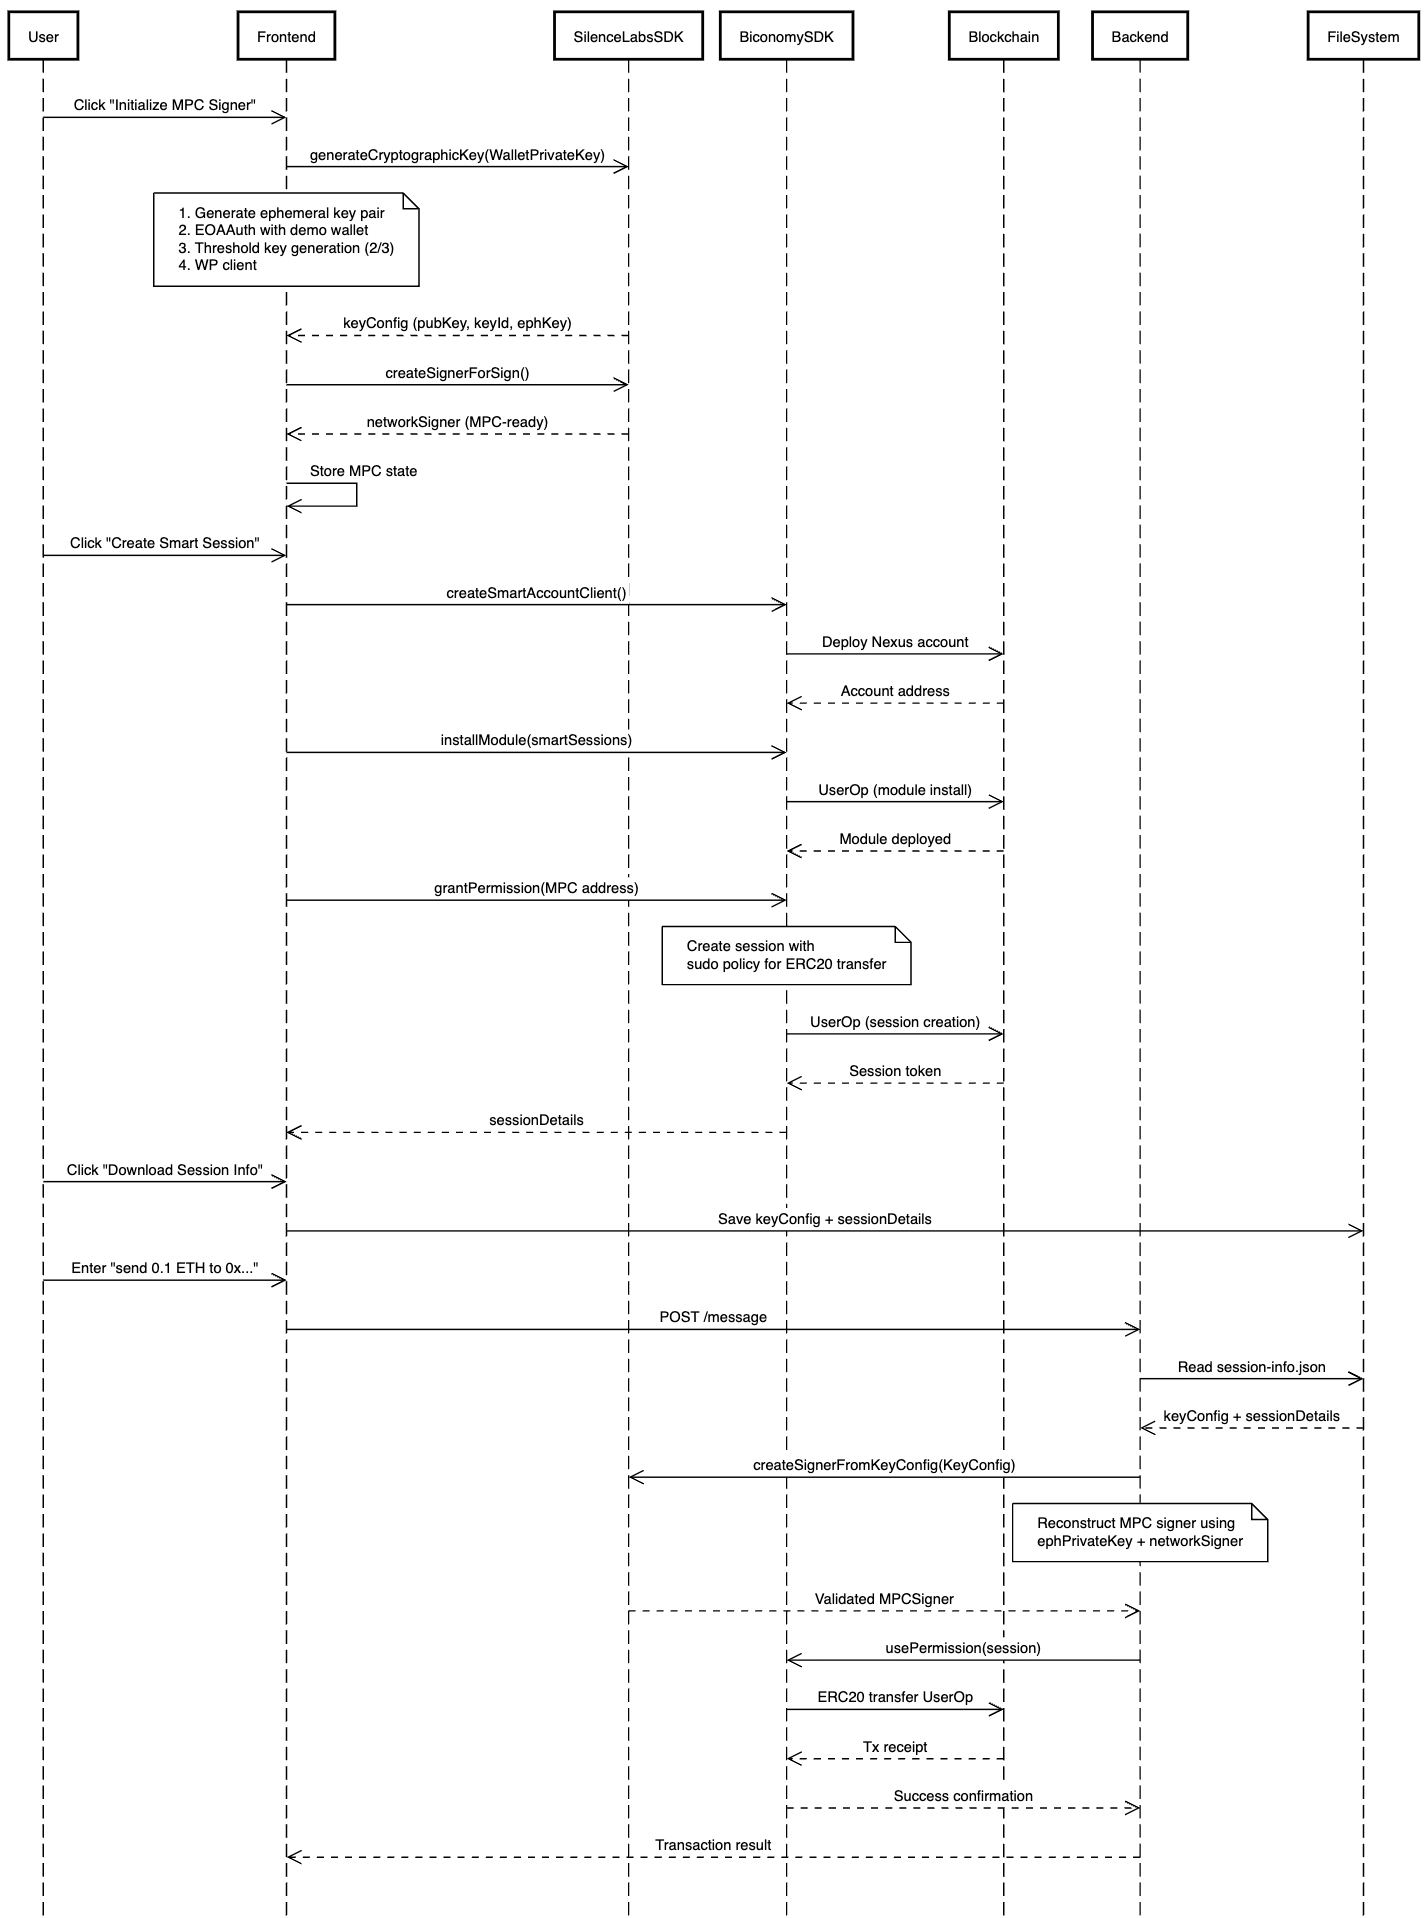
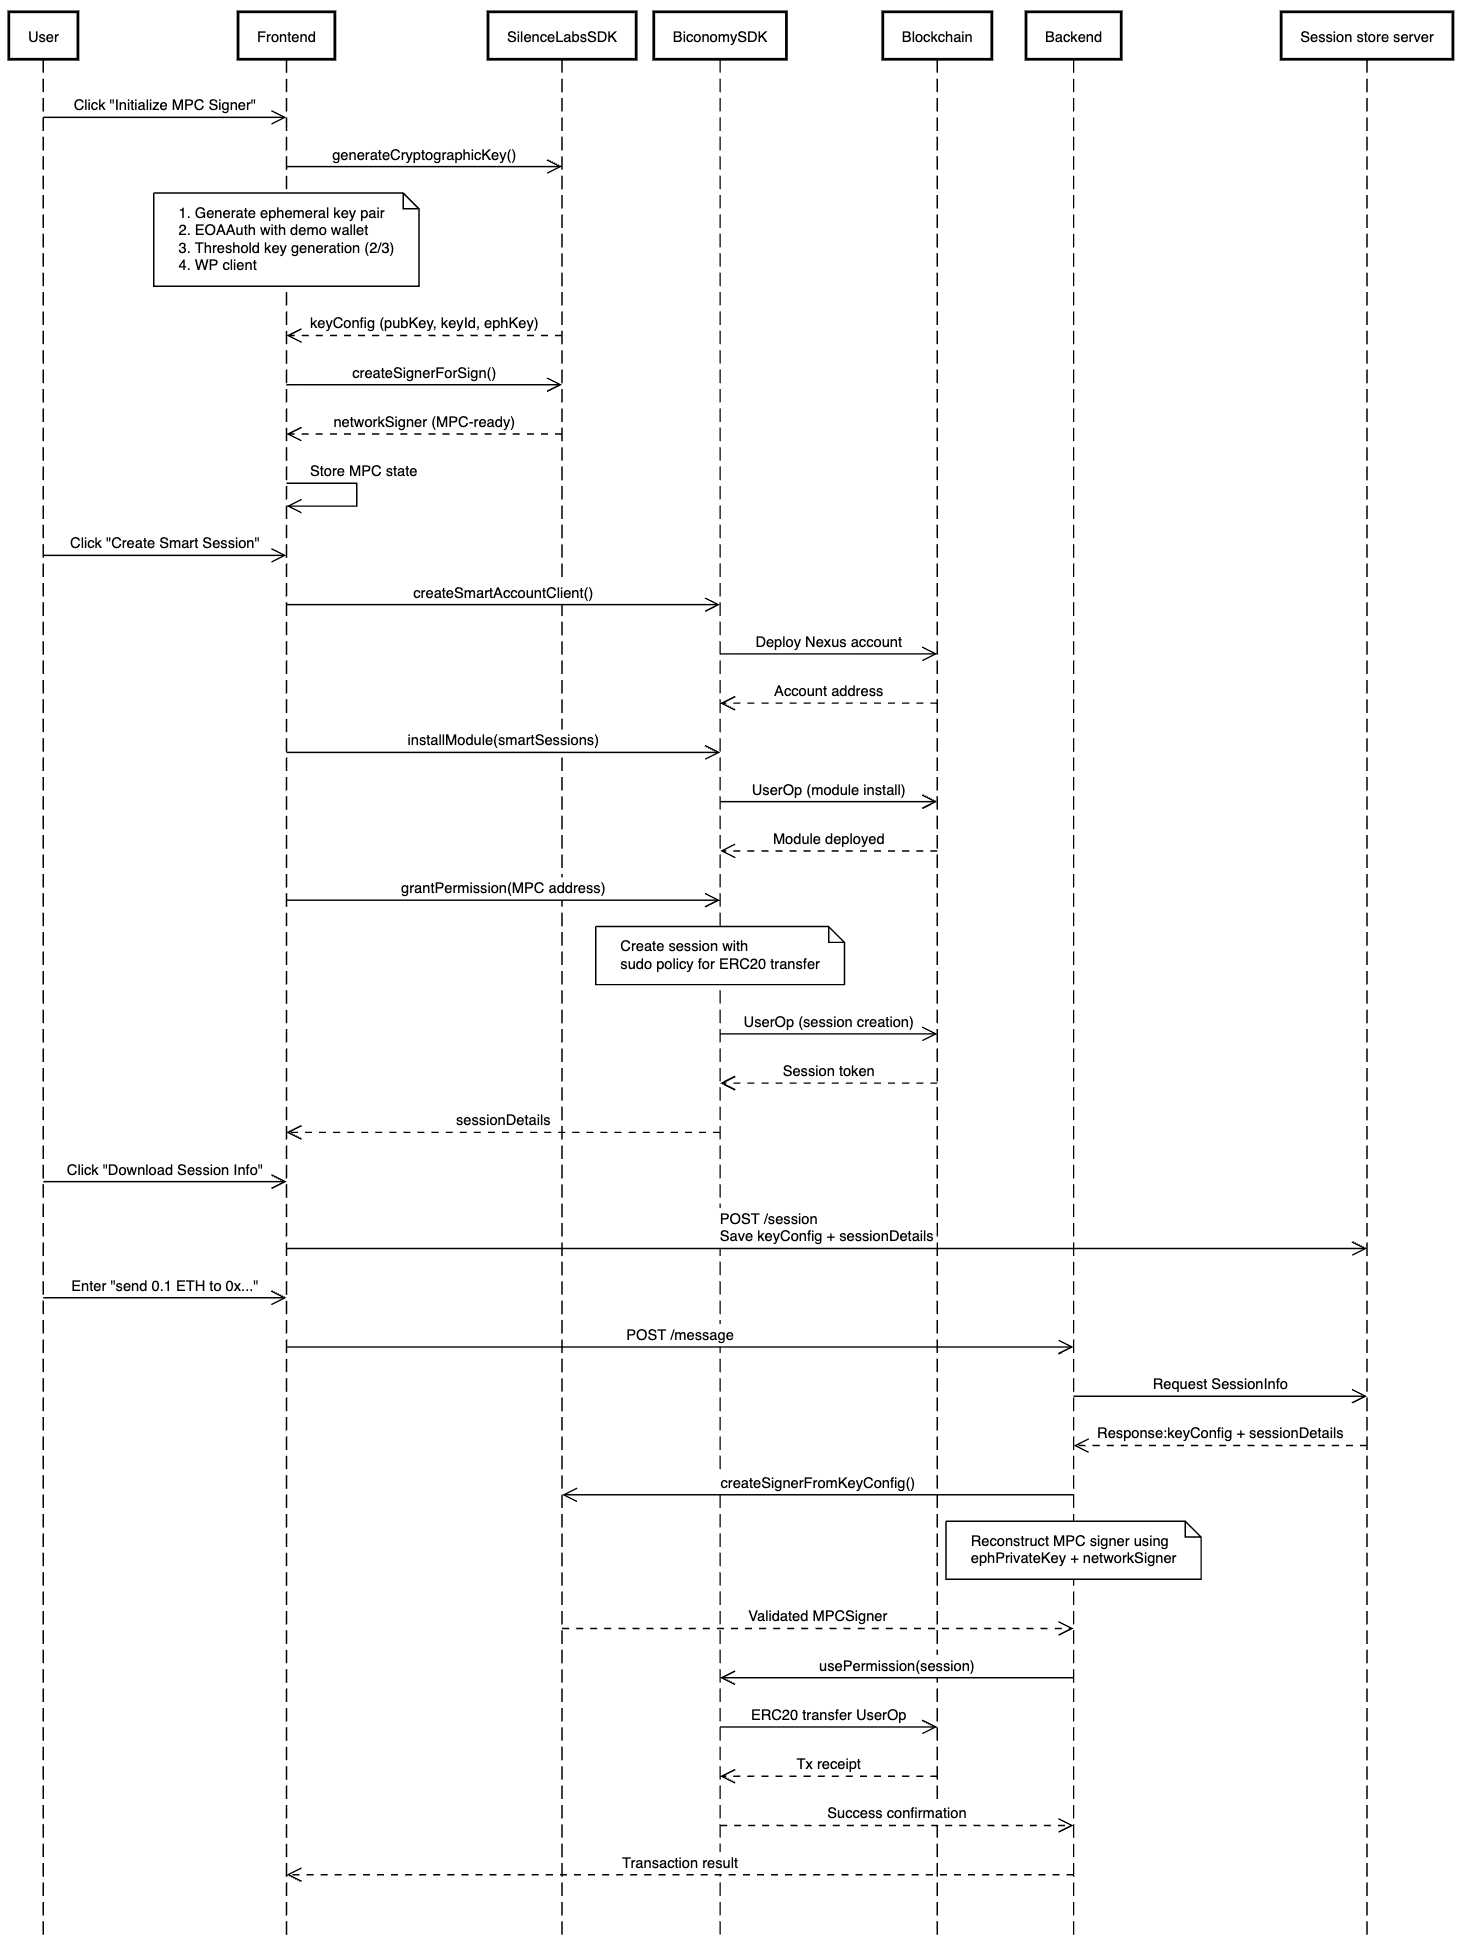
Added env variable,Update wpbe url

diff --git a/src/pages/Index.tsx b/src/pages/Index.tsx
@@ -1,7 +1,4 @@
-/* pages/index.tsx
-   MPC signer → Smart Session → auto-upload → chat
-*/
-import React, { useState, useRef, useEffect } from "react";
+import { useState, useRef, useEffect } from "react";
 import {
   createSmartAccountClient,
   toNexusAccount,
@@ -21,20 +18,17 @@ import { SessionSetup } from "@/components/SessionSetup";
 import { ChatInterface } from "@/components/ChatInterface";
 import { Loader2, X } from "lucide-react";
 
-/* ---------- constants ---------- */
 const chain = { ...baseSepolia, id: 84532 };
-const ALCHEMY_RPC =
-  "https://base-sepolia.g.alchemy.com/v2/71BtTS_ke_J_XJg8P2LtjAGZuDKOQUJD";
-const BICONOMY_BUNDLER_URL =
-  "https://bundler.biconomy.io/api/v3/84532/nJPK7B3ru.dd7f7861-190d-41bd-af80-6877f74b8f44";
-const ERC20_TOKEN_ADDRESS: Address =
-  "0x03AA93e006fBa956cdBAfa2b8EF789D0Cb63e7b4";
+const ALCHEMY_RPC = import.meta.env.VITE_ALCHEMY_RPC;
+const BICONOMY_BUNDLER_URL = import.meta.env.VITE_BICONOMY_BUNDLER_URL;
+const ERC20_TOKEN_ADDRESS: Address = import.meta.env
+  .VITE_ERC20_TOKEN_ADDRESS as Address;
 
-const SESSION_STORE_URL = "https://sessionstoreservice.demo.silencelaboratories.com/api/session";
+const SESSION_STORE_URL =
+  "https://sessionstoreservice.demo.silencelaboratories.com/api/session";
 const AGENT_ID = "aa0d6f50-b80b-0dfa-811b-1f8750ee6278";
 const ELIZA_MESSAGE_URL = `http://localhost:3000/${AGENT_ID}/message`;
 
-/* UUID helper */
 const uuidForKey = (keyId: string) => {
   const key = `session_user_id_${keyId}`;
   let id = localStorage.getItem(key);
@@ -59,22 +53,19 @@ export default function Index() {
   const [loading, setLoading] = useState("");
   const [toast, setToast] = useState<string | null>(null);
 
-  /* fund popup */
   const [showFundPopup, setShowFundPopup] = useState(false);
   const [smartAccountAddress, setSmartAccountAddress] =
     useState<Address | null>(null);
 
   const sessionPhaseRef = useRef<any>(null); // to resume after funding
 
-  /* chat */
   const [sessionUploaded, setSessionUploaded] = useState(false);
   const [chatInput, setChatInput] = useState("");
   const [chatLog, setChatLog] = useState<{ sender: string; message: string }[]>(
-    [],
+    []
   );
   const [isSendingMessage, setIsSendingMessage] = useState(false);
 
-  /* ── 1. init signer ───────────────────────────────── */
   const initializeMPCSigner = async () => {
     setLoading("Initializing MPC Signer…");
     try {
@@ -95,7 +86,6 @@ export default function Index() {
     }
   };
 
-  /* ── 2. phase-1 (prompt funding) ──────────────────── */
   const createSmartSession = async () => {
     if (showFundPopup) return;
     setLoading("Creating Smart Session…");
@@ -129,7 +119,6 @@ export default function Index() {
     }
   };
 
-  /* ── 3. phase-2 (after funding) + upload ───────────── */
   const resumeSmartSession = async () => {
     if (!sessionPhaseRef.current) return;
     setLoading("Finalising Smart Session…");
@@ -141,8 +130,12 @@ export default function Index() {
       });
 
       const smartModule = toSmartSessionsModule({ signer: owner });
-      const installHash = await nexusClient.installModule({ module: smartModule });
-      const rec = await nexusClient.waitForUserOperationReceipt({ hash: installHash });
+      const installHash = await nexusClient.installModule({
+        module: smartModule,
+      });
+      const rec = await nexusClient.waitForUserOperationReceipt({
+        hash: installHash,
+      });
       if (!rec.success) throw new Error("Module installation failed");
 
       const sessionClient = nexusClient.extend(smartSessionActions());
@@ -158,7 +151,7 @@ export default function Index() {
       });
       setSessionDetails(session);
 
-      await uploadSessionInfo(session);          // ← auto-sync
+      await uploadSessionInfo(session); // ← auto-sync
       setToast("✓ Session data synced with backend");
     } catch (e) {
       console.error(e);
@@ -173,7 +166,6 @@ export default function Index() {
     if (!showFundPopup && sessionPhaseRef.current) resumeSmartSession();
   }, [showFundPopup]);
 
-  /* ── upload helper ─────────────────────────────────── */
   const uploadSessionInfo = async (freshSession: any) => {
     if (!freshSession || !keygenData || !keyConfig || !mpcSigner) return;
 
@@ -200,14 +192,13 @@ export default function Index() {
       method: "POST",
       headers: { "Content-Type": "application/json", "x-user-id": userId },
       body: JSON.stringify(payload, (_, v) =>
-        typeof v === "bigint" ? v.toString() : v,
+        typeof v === "bigint" ? v.toString() : v
       ),
     });
     if (!res.ok) throw new Error(await res.text());
     setSessionUploaded(true);
   };
 
-  /* ── pretty print backend responses ───────────────── */
   const formatMessage = (d: any): string => {
     if (typeof d === "string") return d;
 
@@ -230,7 +221,6 @@ export default function Index() {
     return typeof d === "object" ? JSON.stringify(d, null, 2) : String(d);
   };
 
-  /* ── chat send ────────────────────────────────────── */
   const sendChatMessage = async () => {
     if (!chatInput.trim()) return;
 
@@ -239,7 +229,6 @@ export default function Index() {
     setIsSendingMessage(true);
 
     try {
-      /* optimistic retry upload if it failed earlier */
       if (!sessionUploaded) {
         try {
           await uploadSessionInfo(sessionDetails);
@@ -273,7 +262,6 @@ export default function Index() {
     }
   };
 
-  /* ── UI ───────────────────────────────────────────── */
   return (
     <div className="min-h-screen px-4 py-12 md:px-8 bg-background">
       <div className="max-w-4xl mx-auto">

diff --git a/src/lib/sl.ts b/src/lib/sl.ts
@@ -1,12 +1,8 @@
-// lib/sl.ts
-
 import { v4 as uuidv4 } from "uuid";
 import { Buffer } from 'buffer/';
 import {
   LocalAccount,
-  privateKeyToAccount,
   toAccount,
-  publicKeyToAddress
 } from "viem/accounts";
 import {
   WalletProviderServiceClient,
@@ -24,7 +20,6 @@ import {
 import {
   bytesToHex,
   stringToHex,
-  hexToBytes,
   keccak256,
   serializeSignature,
   serializeTransaction,
@@ -43,7 +38,7 @@ import { ApiVersion } from "@silencelaboratories/walletprovider-sdk";
 
 const clusterConfig = {
   walletProviderId: "WalletProvider",
-  walletProviderUrl: "wss://34.118.117.249",
+  walletProviderUrl: "https://wpbe-internal-silent-network.silencelaboratories.com",
   apiVersion: "v1" as ApiVersion,
 };
 
@@ -98,7 +93,6 @@ export async function generateCryptographicKey(): Promise<{
   const [ownerAddress] = await window.ethereum.request({ method: "eth_requestAccounts" });
   if (!ownerAddress) throw new Error("No account found in MetaMask");
 
-  // Ephemeral key pair (used only for current session)
   const signAlg = "secp256k1";
   const ephemeralPrivKey = generateEphPrivateKey(signAlg);
   const ephemeralPubKey = getEphPublicKey(ephemeralPrivKey, signAlg);
@@ -106,7 +100,6 @@ export async function generateCryptographicKey(): Promise<{
 
   const ephClaim = new EphKeyClaim(ephemeralId, ephemeralPubKey, signAlg, 3600); // 1hr TTL
 
-  // Use MetaMask for signing the auth message
   const browserWallet = {
     async signMessage(data: Uint8Array): Promise<Uint8Array> {
       const hexMsg = `0x${Buffer.from(data).toString("hex")}`;
@@ -115,7 +108,6 @@ export async function generateCryptographicKey(): Promise<{
         params: [hexMsg, ownerAddress],
       });
 
-      // Signature is 0x{r}{s}{v}, decode it to Uint8Array
       return Buffer.from(signature.slice(2), "hex");
     },
 
@@ -217,7 +209,6 @@ export function createViemAccount(
       return res;
     },
 
-    // B) signTransaction: same approach -> raw ecdsa of keccak(rlp)
     async signTransaction(tx, args) {
       console.log("MPC signTransaction:", tx);
 
@@ -227,7 +218,6 @@ export function createViemAccount(
         : tx;
 
       const txHash = keccak256(serializer(signableTx));
-      // sign raw 32 bytes
       const signReq = new SignRequestBuilder()
         .setRequest(address, txHash.slice(2), "rawBytes")
         .build();
@@ -239,7 +229,6 @@ export function createViemAccount(
       return serializer(tx, sig);
     },
 
-    // C) signTypedData: If your aggregator doesn't handle EIP712, this might fail on chain.
     async signTypedData(typedData) {
       console.log("MPC signTypedData:", typedData);
       const dataHash = hashTypedData(typedData);
@@ -257,7 +246,6 @@ export function createViemAccount(
   });
 }
 
-// Utility: convert any message into a 0x-string
 function normalizeToHex(msg: string | Uint8Array | { raw: string | Uint8Array }): `0x${string}` {
   if (typeof msg === "string") {
     return msg.startsWith("0x")

diff --git a/index.html b/index.html
@@ -2,7 +2,6 @@
 <html lang="en">
   <head>
     <meta charset="UTF-8" />
-    <!-- <meta name="viewport" content="width=device-width, initial-scale=0" /> -->
     <title>slxbico Integration</title>
     <link rel="icon" type="image/png" href="./public/sl-logo.png"/>
     <meta name="description" content="sl" />
@@ -13,7 +12,6 @@
 
   <body>
     <div id="root"></div>
-    <!-- IMPORTANT: DO NOT REMOVE THIS SCRIPT TAG OR THIS VERY COMMENT! -->
     <script src="https://cdn.gpteng.co/gptengineer.js" type="module"></script>
     <script type="module" src="/src/main.tsx"></script>
   </body>

diff --git a/src/App.tsx b/src/App.tsx
@@ -16,7 +16,7 @@ const App = () => (
       <BrowserRouter>
         <Routes>
           <Route path="/" element={<Index />} />
-          {/* ADD ALL CUSTOM ROUTES ABOVE THE CATCH-ALL "*" ROUTE */}
+          {/* Add other routes here */}
           <Route path="*" element={<NotFound />} />
         </Routes>
       </BrowserRouter>

diff --git a/src/types/biconomy.d.ts b/src/types/biconomy.d.ts
@@ -1,7 +1,3 @@
-
-// Type declarations for @biconomy/abstractjs
-// This is a simplified version just to make TypeScript happy during development
-
 declare module '@biconomy/abstractjs' {
   import { Address } from 'viem';
   
